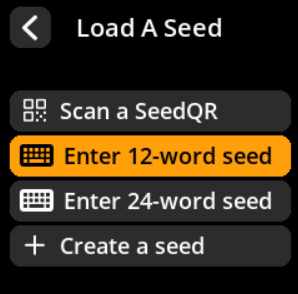
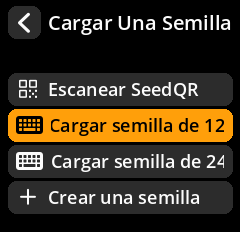
completed seed management  directory in spanish language

diff --git a/es/seed_management/load_existing_seeds/adding_bip_39_passphrase.md b/es/seed_management/load_existing_seeds/adding_bip_39_passphrase.md
@@ -1,46 +1,49 @@
-# Adding BIP-39 Passphrase
+# Añadiendo la contraseña BIP-39
 
-Enhance your seed security with an optional passphrase. This creates an entirely different wallet even with the same seed words.
+Mejora la seguridad de tus semillas con una contraseña opcional. Esto crea una billetera completamente diferente, incluso con las mismas contraseñas.
 
-## Complete Step-by-Step Process with All Screenshots
+## Proceso paso a paso con capturas de pantalla
 
-1. **Access Passphrase Entry**: From the "Finalize Seed" screen, select **"BIP-39 Passphrase"**
-
-<div align="center">
-     <img src="images/BIP-39PassphraseSelectView.png" alt="Accessing passphrase entry from finalize screen" width="250"/>
-</div>
-
-2. **Enter Your Passphrase**: Use the on-screen keyboard with multiple character sets:
-   - **Default Mode**: Lowercase letters (a-z)
+1. **Introducción de la contraseña**: En la pantalla "Finalizar semilla", seleccione **"Contraseña BIP-39"**
 
 <div align="center">
-     <img src="images/SeedAddPassphraseView_lowercase.png" alt="Passphrase entry screen - lowercase" width="250"/>
+     <img src="images/BIP-39PassphraseSelectView.png" alt="Acceso a la contraseña desde la pantalla de finalización" width="250"/>
 </div>
 
-- **Key A**: Switch to uppercase letters (A-Z)
+2. **Introduzca su contraseña**: Use el teclado en pantalla con varios conjuntos de caracteres:
+
+- **Modo predeterminado**: Minúsculas (a-z)
 
 <div align="center">
-     <img src="images/SeedAddPassphraseView_uppercase.png" alt="Passphrase entry screen - uppercase" width="250"/>
+     <img src="images/SeedAddPassphraseView_lowercase.png" alt="Pantalla de introducción de contraseña - minúsculas" width="250"/>
 </div>
 
-- **Key B**: Access numbers (0-9) and symbols
+- **Tecla A**: Cambiar a mayúsculas (A-Z)
 
 <div align="center">
-     <img src="images/SeedAddPassphraseView_digits.png" alt="Passphrase entry screen - symbols and numbers" width="250"/>
-</div>
-<div align="center">
-     <img src="images/SeedAddPassphraseView_symbols_1.png" alt="Passphrase entry screen - symbols and numbers" width="250"/>
-</div>
-<div align="center">
-     <img src="images/SeedAddPassphraseView_symbols_2.png" alt="Passphrase entry screen - symbols and numbers" width="250"/>
+     <img src="images/SeedAddPassphraseView_uppercase.png" alt="Pantalla de introducción de contraseña - mayúsculas" width="250"/>
 </div>
 
-3. **Review Your Entry**: Double-check your passphrase for accuracy
-
-4. **Confirm or Edit**: Select **"Done"** to confirm, or make corrections if needed
+- **Tecla B**: Números de acceso (0-9) y símbolos
 
 <div align="center">
-     <img src="images/SeedPassphraseReviewView.png" alt="Passphrase review screen" width="250"/>
+     <img src="images/SeedAddPassphraseView_digits.png" alt="Pantalla de introducción de contraseña - símbolos y números" width="250"/>
 </div>
 
-> **🔐 Critical Security Note**: A BIP-39 passphrase creates an entirely different wallet from the same seed words. You must store your passphrase separately from your seed words. Losing the passphrase means losing access to that wallet forever.
+<div align="center">
+     <img src="images/SeedAddPassphraseView_symbols_1.png" alt="Pantalla de introducción de contraseña - símbolos y números" width="250"/>
+</div>
+
+<div align="center">
+     <img src="images/SeedAddPassphraseView_symbols_2.png" alt="Pantalla de introducción de contraseña - símbolos y números" width="250"/>
+</div>
+
+3. **Revisar su entrada**: Verifique la precisión de su contraseña.
+
+4. **Confirmar o editar**: Seleccione **"Listo"** para confirmar o hacer correcciones si es necesario.
+
+<div align="center">
+     <img src="images/SeedPassphraseReviewView.png" alt="Pantalla de revisión de contraseña" width="250"/>
+</div>
+
+> **🔐 Nota de seguridad importante**: Una contraseña BIP-39 crea una billetera completamente diferente a partir de las mismas palabras clave. Debe guardar su contraseña por separado de las palabras clave. Perder la contraseña significa perder el acceso a esa billetera para siempre.

diff --git a/es/seed_management/load_existing_seeds/manual_seed_entry.md b/es/seed_management/load_existing_seeds/manual_seed_entry.md
@@ -1,46 +1,46 @@
-# Manual Seed Entry
+# Entrada manual de semilla
 
-Enter your existing mnemonic phrase using the on-screen keyboard system.
+Ingrese su frase mnemotécnica usando el teclado en pantalla.
 
-## Complete Step-by-Step Process with All Screenshots
+## Proceso completo paso a paso con todas las capturas de pantalla
 
-1. **Navigate**: Main Menu → **Seeds** → **"Load a Seed"**
-
-<div align="center">
-     <img src="images/SeedsOptionSelectView.png" alt="Tools menu selection" width="250"/>
-</div>
-<div align="center">
-     <img src="images/LoadASeedMainOptionSelectView.png" alt="Load seed menu" width="250"/>
-</div>
-
-2. **Choose Length**: Select **"Enter 12-word seed"** or **"Enter 24-word seed"**
+1. **Navegar**: Menú principal → **Semillas** → **"Cargar una semilla"**
 
 <div align="center">
-     <img src="images/LoadASeedMainMenuView.png" alt="Manual entry seed length selection" width="250"/>
+     <img src="images/SeedsOptionSelectView.png" alt="Selección del menú Herramientas" width="250"/>
 </div>
 <div align="center">
-     <img src="images/SeedMnemonicLengthView.png" alt="Manual entry seed length selection" width="250"/>
+     <img src="images/LoadASeedMainOptionSelectView.png" alt="Cargar menú de semillas" width="250"/>
 </div>
 
-3. **Enter Each Word**:
-   - Use the on-screen keyboard with intelligent word suggestions
-   - Type the first few letters and select from suggestions for faster entry
-   - **Key A**: Move up in the suggestions list
-   - **Key C**: Move down in the suggestions list  
-   - **Key B**: Select the highlighted suggested word
+2. **Elegir longitud**: Seleccionar **"Introducir semilla de 12 palabras"** o **"Introducir semilla de 24 palabras"**
 
 <div align="center">
-     <img src="images/SeedWordEnterView.png" alt="Seed word entry in progress" width="250"/>
+     <img src="images/LoadASeedMainMenuView.png" alt="Selección manual de la longitud de la semilla" width="250"/>
+</div>
+<div align="center">
+     <img src="images/SeedMnemonicLengthView.png" alt="Selección de longitud de la semilla para entrada manual" width="250"/>
 </div>
 
-4. **Review Seed Fingerprint**: Check the unique identifier on the "Finalize Seed" screen
+3. **Ingresar cada palabra**:
+- Usar el teclado en pantalla con sugerencias inteligentes de palabras.
+- Escribir las primeras letras y seleccionar entre las sugerencias para una entrada más rápida.
+- **Tecla A**: Subir en la lista de sugerencias.
+- **Tecla C**: Bajar en la lista de sugerencias.
+- **Tecla B**: Seleccionar la palabra sugerida resaltada.
 
 <div align="center">
-     <img src="images/SeedFinalizeView.png" alt="Seed finalization screen with fingerprint" width="250"/>
+     <img src="images/SeedWordEnterView.png" alt="Ingreso de palabra semilla en curso" width="250"/>
 </div>
 
-5. **Complete Loading**:
-   - Select **"Done"** to load the seed as-is
-   - Or select **"BIP-39 Passphrase"** to add an additional security layer
+4. **Revisar la huella de la semilla**: Verificar el identificador único en la pantalla "Finalizar semilla".
 
-> **⚡ Speed Tip**: The word suggestion feature dramatically speeds up entry. Type just the first 2-3 letters of each word and select from the filtered suggestions rather than typing each letter individually.
+<div align="center">
+     <img src="images/SeedFinalizeView.png" alt="Pantalla de finalización de la semilla con huella digital" width="250"/>
+</div>
+
+5. **Carga completa**:
+- Seleccione **"Listo"** para cargar la semilla tal cual.
+- O seleccione **"Frase de contraseña BIP-39"** para añadir una capa de seguridad adicional.
+
+> **⚡ Consejo rápido**: La función de sugerencia de palabras agiliza enormemente la entrada. Escriba solo las primeras 2 o 3 letras de cada palabra y seleccione entre las sugerencias filtradas en lugar de escribir cada letra individualmente.

diff --git a/es/seed_management/load_existing_seeds/seedqr_scanning.md b/es/seed_management/load_existing_seeds/seedqr_scanning.md
@@ -1,35 +1,35 @@
-# SeedQR Scanning
+# Escaneo de SeedQR
 
-Quickly and securely load seeds from SeedQR codes - a compact QR code format specifically designed for seed phrases.
+Cargue semillas de forma rápida y segura desde códigos SeedQR: un formato de código QR compacto diseñado específicamente para frases de semillas.
 
-## Complete Step-by-Step Process with All Screenshots
+## Proceso completo paso a paso con todas las capturas de pantalla
 
-1. **Navigate**: Main Menu → **Scan**
-
-<div align="center">
-     <img src="images/MainMenuView.png" alt="Main menu highlighting Scan option" width="250"/>
-</div>
-
-2. **Position QR Code**: Point the camera at your SeedQR code
+1. **Navegar**: Menú principal → **Escanear**
 
 <div align="center">
-     <img src="images/SeedQRScan.png" alt="SeedQR scanning interface" width="250"/>
+     <img src="images/MainMenuView.png" alt="Opción de escaneo resaltada en el menú principal" width="250"/>
 </div>
 
-3. **Wait for Recognition**: The device will automatically detect and process valid SeedQR codes
-
-4. **Review Details**: Check the seed information on the "Finalize Seed" screen
+2. **Posicionar código QR**: Apunte la cámara a su código SeedQR
 
 <div align="center">
-     <img src="images/SeedFinalizeView.png" alt="SeedQR finalization screen" width="250"/>
+     <img src="images/SeedQRScan.png" alt="Interfaz de escaneo SeedQR" width="250"/>
 </div>
 
-5. **Handle Errors**: If you see "Unknown QR Type", the QR code format isn't recognized
+3. **Esperar reconocimiento**: El dispositivo detectará y procesará automáticamente los códigos SeedQR válidos.
+
+4. **Revisar detalles**: Verifique la información de la semilla en la pantalla "Finalizar semilla"
 
 <div align="center">
-     <img src="images/ScanInvalidQRTypeView.png" alt="Unknown QR type error message" width="250"/>
+     <img src="images/SeedFinalizeView.png" alt="Finalización de SeedQR screen" width="250"/>
 </div>
 
-6. **Complete Loading**: Select **"Done"** to load the seed
+5. **Gestionar errores**: Si ve "Tipo de QR desconocido", el formato del código QR no se reconoce.
 
-> **❌ Troubleshooting**: If you see "Unknown QR Type", the QR code format isn't recognized as a valid SeedQR. Press "Done" to return to scanning mode and verify you're using a properly formatted SeedQR code.
+<div align="center">
+     <img src="images/ScanInvalidQRTypeView.png" alt="Mensaje de error de tipo de QR desconocido" width="250"/>
+</div>
+
+6. **Finalizar carga**: Seleccione **"Listo"** para cargar la semilla.
+
+> **❌ Solución de problemas**: Si ve "Tipo de QR desconocido", el formato del código QR no se reconoce como un SeedQR válido. Pulse "Listo" para volver al modo de escaneo y verificar que está usando un código SeedQR con el formato correcto.
